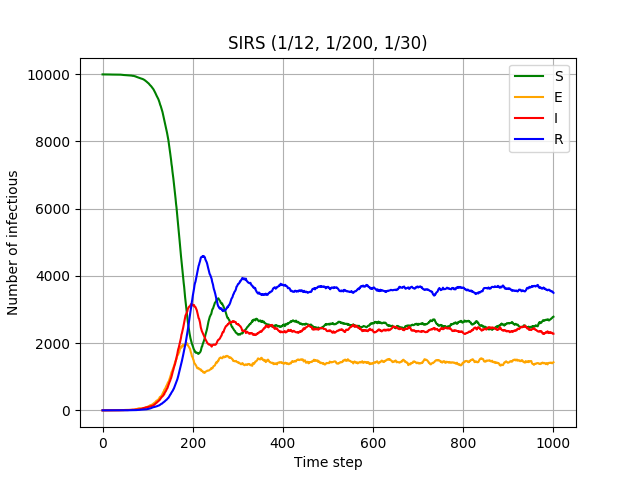
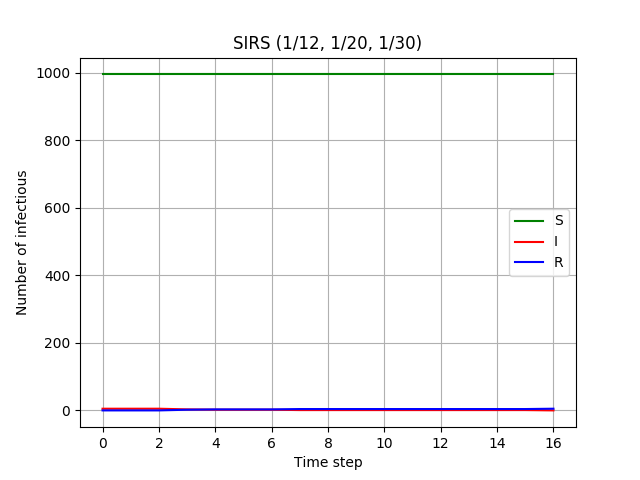
bugy

diff --git a/main.py b/main.py
@@ -20,14 +20,15 @@ Equestions(p.334)
 # Beta = R0/N/D_I                         # p.32
 # Lamda = Beta*I                          # p.32
 
-N = 10000
-S = 9995
-E = 1
-I = 2
-R = 2
+N = 1000
+S = 995
+E = 0
+I = 5
+R = 0
 beta_M_H = 0.89
 beta_H_M = 0.20
 lambda_E_I = 1/12
+""" change sum(G) for only human I, result to a quick die out."""
 lambda_I_R = 1/20
 lambda_R_S = 1/30
 
@@ -56,7 +57,7 @@ num_of_recovery.append(population.R_size)
 mosI.append(mos.I)
 
 # simulation start
-while population.I_size != population.N_size and (population.I_size + population.E_size) != 0 and time < 1000:
+while population.I_size != population.N_size and (population.I_size + population.E_size) != 0 and time < 1500:
 
     # update mosquito
     mos.update(population)
@@ -65,26 +66,26 @@ while population.I_size != population.N_size and (population.I_size + population
     p = mos.I * mos.bite_per_day * beta_M_H
     for individual in population.filter(State.S):
         if np.random.uniform() < p:
-            individual.state = State.E
+            individual.state = State.I
             individual.CDF = 0
             individual.duration = 0
             individual.threshold = np.random.uniform(0, 1)
         else:
             individual.duration += 1
 
-    # pre-infectious update => infectious
-    p = lambda_E_I
-    rv = poisson(1 / p)
-    for individual in population.filter(State.E):
-        if individual.CDF > individual.threshold:
-            individual.state = State.I
-            individual.CDF = 0
-            individual.duration = 0
-            individual.threshold = np.random.uniform(0, 1)
-        else:
-            diff = (rv.cdf(individual.duration + 1) - rv.cdf(individual.duration))
-            individual.CDF += diff
-            individual.duration += 1
+    # # pre-infectious update => infectious
+    # p = lambda_E_I
+    # rv = poisson(1 / p)
+    # for individual in population.filter(State.E):
+    #     if individual.CDF > individual.threshold:
+    #         individual.state = State.I
+    #         individual.CDF = 0
+    #         individual.duration = 0
+    #         individual.threshold = np.random.uniform(0, 1)
+    #     else:
+    #         diff = (rv.cdf(individual.duration + 1) - rv.cdf(individual.duration))
+    #         individual.CDF += diff
+    #         individual.duration += 1
 
     # infectious => recovery
     p = lambda_I_R
@@ -120,7 +121,7 @@ while population.I_size != population.N_size and (population.I_size + population
     # for plot
     time += 1
     num_of_susceptible.append(population.S_size)
-    num_of_pre_infectious.append(population.E_size)
+    # num_of_pre_infectious.append(population.E_size)
     num_of_infectious.append(population.I_size)
     num_of_recovery.append(population.R_size)
     mosI.append(mos.I)
@@ -130,12 +131,12 @@ while population.I_size != population.N_size and (population.I_size + population
 time = np.arange(start=0, stop=time+1, step=1)
 fig, ax = plt.subplots()
 ax.plot(time, num_of_susceptible, color='green', label='S')
-ax.plot(time, num_of_pre_infectious, color='orange', label='E')
+# ax.plot(time, num_of_pre_infectious, color='orange', label='E')
 ax.plot(time, num_of_infectious, color='red', label='I')
 ax.plot(time, num_of_recovery, color='blue', label='R')
 
 ax.set(xlabel='Time step', ylabel='Number of infectious',
-       title='SIRS (1/12, 1/200, 1/30)')
+       title='SIRS (1/12, 1/20, 1/30)')
 plt.legend()
 ax.grid()
 
@@ -156,13 +157,13 @@ plt.show()
 """Analysis result"""
 
 mean_S = np.mean(num_of_susceptible)
-mean_E = np.mean(num_of_pre_infectious)
+# mean_E = np.mean(num_of_pre_infectious)
 mean_I = np.mean(num_of_infectious)
 mean_R = np.mean(num_of_recovery)
 mean_Mos_I = np.mean(mosI)
 
 print("mean_S: %d" %(mean_S))
-print("mean_E: %d" %(mean_E))
+# print("mean_E: %d" %(mean_E))
 print("mean_I: %d" %(mean_I))
 print("mean_R: %d" %(mean_R))
 print("mean_Mos_I: %f3" %(mean_Mos_I))

diff --git a/individual.py b/individual.py
@@ -1,6 +1,7 @@
 from enum import *
 import numpy as np
 
+
 class State(Enum):
     S = auto()
     E = auto()
@@ -8,9 +9,24 @@ class State(Enum):
     R = auto()
 
 
+n = 2
+k = 10
+o = 0.6
+Gmax = 1
+
+
 class Individual:
-    def __init__(self, state: State):
+
+    def __init__(self, state: State, CDF=0, duration=0, threshold=np.random.uniform(0, 1)):
         self.state = state
-        self.CDF = 0
-        self.duration = 0
-        self.threshold = np.random.uniform(0, 1)
+        self.CDF = CDF
+        self.duration = duration
+        self.threshold = threshold
+
+    def getG(self):
+        if self.state == State.I:
+            x = self.duration
+            G = (x ** n / (x ** n + k ** n) - o / (1 + o)) * (1 + o) * Gmax
+        else:
+            G = 0
+        return G if G >= 0 else 0

diff --git a/population.py b/population.py
@@ -1,5 +1,5 @@
 from individual import *
-
+from numpy import random
 
 class Population:
     def __init__(self, N=None, S=None, E=None, I=None, R=None, individuals=None):
@@ -19,8 +19,10 @@ class Population:
     def generate(self):
         for _ in range(self.S_size):
             self.individuals.append(Individual(state=State.S))
+        for _ in range(self.E_size):
+            self.individuals.append(Individual(state=State.E))
         for _ in range(self.I_size):
-            self.individuals.append(Individual(state=State.I))
+            self.individuals.append(Individual(state=State.I, duration=random.choice(range(28))))
         for _ in range(self.R_size):
             self.individuals.append(Individual(state=State.R))
 

diff --git a/mosquito.py b/mosquito.py
@@ -1,3 +1,5 @@
+from individual import State
+
 class Mosquito:
 
     def __init__(self, beta, bite_per_day, life_expectancy, population):
@@ -9,8 +11,10 @@ class Mosquito:
 
     def update(self, population):
 
+        I = sum([i.getG() for i in population.filter(State.S)])
+
         # 1/10 mos die, replaced by (1-1/10) new born healthy mos + new infections
         self.I = self.I * (1 - 1/self.life_expectancy) + \
-                 (1-self.I) * self.beta * self.bite_per_day * population.I_size / population.N_size
+                 (1-self.I) * self.beta * self.bite_per_day * I / population.N_size
 
 

diff --git a/equation.m b/equation.m
@@ -1,0 +1,11 @@
+n = 2;
+k = 10;
+o = 0.6;
+Gmax = 10^3;
+
+x = 0:0.1:28;
+G = (x.^n ./ (x.^n + k.^n) - o/(1+o)) * (1+o) * Gmax;
+
+figure
+semilogy(x, G)
+grid on
